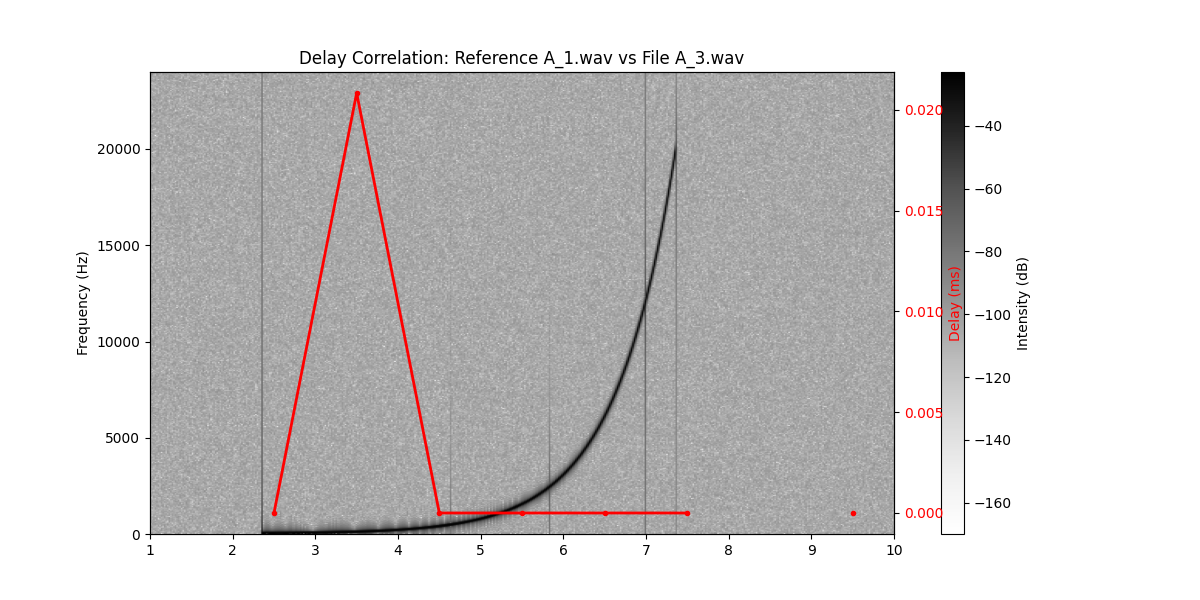
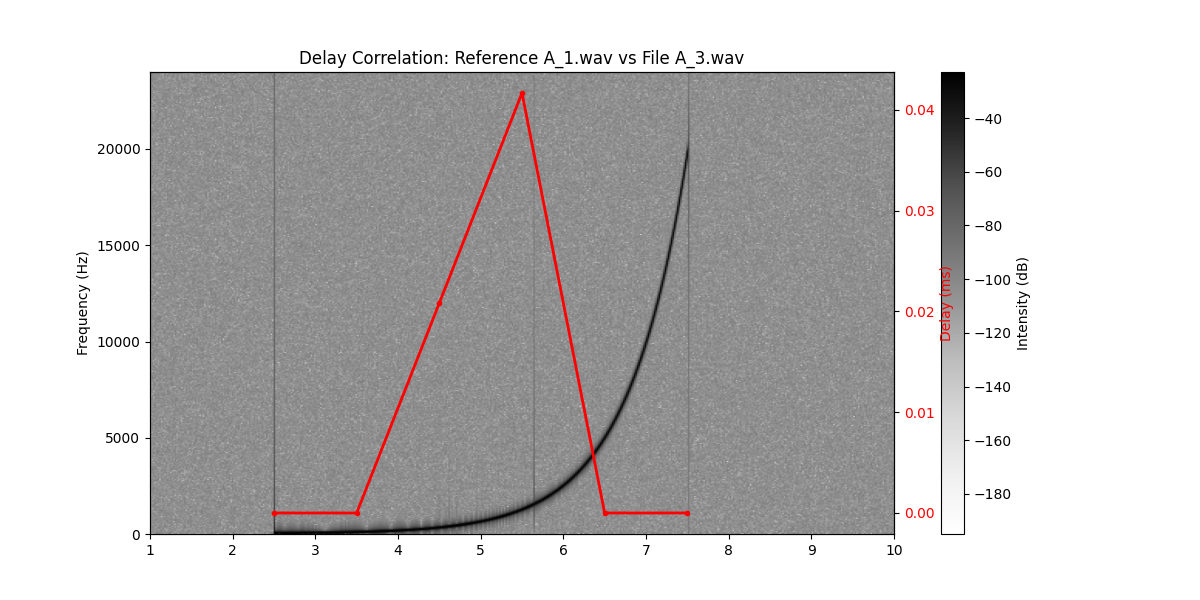
feat: 增加延迟检测阈值配置，优化延迟计算与输出
- 在 Config 类中添加 limit_delay_ms 和 too_low_db 参数，替代硬编码阈值
- 延迟超出阈值的值设为 NaN，避免截断带来的统计偏差
- 延迟单位统一为毫秒，减少单位转换
- 所有输出路径使用 config.output_dir 构建，提高脚本可移植性
- 更新 README.md 中的参数说明和输出文件单位描述

diff --git a/audio_files_analysis.py b/audio_files_analysis.py
@@ -5,6 +5,7 @@ from typing import List, Optional
 import numpy as np
 from scipy.signal import correlate
 from utils import db_to_amplitude
+import matplotlib.pyplot as plt
 
 class Config:
     def __init__(self):
@@ -18,6 +19,10 @@ class Config:
         self.output_dir: str = "./output"
         # 数据对齐时，参考音频文件前后填充的空白采样点数量
         self.align_padding_samples: int = int(self.sample_rate * 0.5)
+        # 延迟检测时，超过延迟时间则视为异常删除数据，单位：毫秒
+        self.limit_delay_ms: float = 5
+        # 延迟检测时，低于此分贝数值则忽略
+        self.too_low_db: float = -60
 
 class AudioAnalysis:
     def __init__(self, config: Config):
@@ -36,7 +41,7 @@ class AudioAnalysis:
         for file in self.aligned_files:
             print(f"整体对齐后的音频文件: {file}")
 
-    def delay_correlation(self, idx_ref: int, idx: int, savefig: Optional[str]=None, plot: bool=False, window_size: Optional[int]=None, hard_clipped_delay_ms: Optional[int]=None) -> List[float]:
+    def delay_correlation(self, idx_ref: int, idx: int, savefig: Optional[str]=None, plot: bool=False, window_size: Optional[int]=None, limit_delay_ms: Optional[float]=None) -> np.ndarray:
         """
         利用窗口，比较两个音频文件之间的延迟，并绘制图谱。
 
@@ -45,8 +50,10 @@ class AudioAnalysis:
             idx: 待比较音频文件的索引
             savefig: 保存图片的文件名
             plot: 是否绘制图谱
+            window_size: 窗口大小，单位：采样点数量。可选，默认为采样率，即1秒
+            limit_delay_ms: 延迟时间阈值，超过阈值则视为异常，单位：毫秒。可选，默认为配置指定毫秒
         Returns:
-            delay_samples: 延迟时间列表，单位：秒
+            delay_samples_ms: 延迟时间，单位：毫秒
         """
         if savefig is None and not plot:
             return
@@ -57,11 +64,11 @@ class AudioAnalysis:
         ref_y, ref_sr = sf.read(ref_file)
         y, sr = sf.read(file)
 
-        delay_samples = []
+        delay_samples_ms = []
         if window_size is None:
-            window_size = int(self.config.sample_rate / 2)
-        if hard_clipped_delay_ms is None:
-            hard_clipped_delay_ms = 1000 * 2 * window_size / self.config.sample_rate
+            window_size = self.config.sample_rate
+        if limit_delay_ms is None:
+            limit_delay_ms = self.config.limit_delay_ms
 
         # 开头和结尾的空间预留出来
         step_count = int(len(ref_y) / window_size) - 2
@@ -79,8 +86,8 @@ class AudioAnalysis:
 
             audio_ref_rms = np.sqrt(np.mean(audio_ref ** 2))
             audio_y_rms = np.sqrt(np.mean(audio_y ** 2))
-            if audio_ref_rms < db_to_amplitude(-60) or audio_y_rms < db_to_amplitude(-60): # 音量过小，忽略
-                delay_samples.append(0.0)
+            if audio_ref_rms < db_to_amplitude(self.config.too_low_db) or audio_y_rms < db_to_amplitude(self.config.too_low_db): # 音量过小，忽略
+                delay_samples_ms.append(0.0)
                 continue
             alpha = audio_ref_rms / audio_y_rms
             audio_y = audio_y * alpha
@@ -90,15 +97,16 @@ class AudioAnalysis:
             estimated_offset = np.argmax(corr)
             offset = estimated_offset - window_size
             offset = -offset # 正数表示audio_y延迟，负数表示audio_y提前
-            delay_time_sec = offset / ref_sr
-            delay_samples.append(delay_time_sec)
+            delay_time_ms = 1000 * offset / ref_sr
+            delay_samples_ms.append(delay_time_ms)
+        delay_samples_ms = np.array(delay_samples_ms)
+        delay_samples_ms[np.abs(delay_samples_ms) > limit_delay_ms] = np.nan
 
         # 绘制图谱所需的数据，背景是参考音频区间的FFT图谱，前景是延迟时间，单位是毫秒
         ref_y_samples = ref_y[sample_begin: sample_begin + sample_length]
         ref_y_times = ref_y_samples / ref_sr
 
         # --- 绘图逻辑 ---
-        import matplotlib.pyplot as plt
 
         plt.figure(figsize=(12, 6))
 
@@ -119,13 +127,8 @@ class AudioAnalysis:
         # 构建延迟曲线的时间轴 - 保持原有逻辑
         time_axis = (np.arange(step_count) * window_size + sample_begin + window_size / 2) / ref_sr
 
-        # 将延迟秒数转换为毫秒
-        delay_ms = np.array(delay_samples) * 1000
-        #delay_ms = np.clip(delay_ms, -hard_clipped_delay_ms, hard_clipped_delay_ms)
-        delay_ms[np.abs(delay_ms) > hard_clipped_delay_ms] = None
-
         # 绘制曲线，颜色设为醒目的红色
-        ax2.plot(time_axis, delay_ms, color='red', linewidth=2, marker='o', markersize=3, label='Delay (ms)')
+        ax2.plot(time_axis, delay_samples_ms, color='red', linewidth=2, marker='o', markersize=3, label='Delay (ms)')
         ax2.set_ylabel('Delay (ms)', color='red')
         ax2.tick_params(axis='y', labelcolor='red')
 
@@ -142,7 +145,7 @@ class AudioAnalysis:
             plt.show()
         else:
             plt.close()
-        return delay_samples
+        return delay_samples_ms
 
     @staticmethod
     def validate_single_wav(filepath: str, config: Config) -> None:
@@ -347,14 +350,14 @@ if __name__ == "__main__":
     config = Config()
     analysis = AudioAnalysis(config)
     m = analysis.audio_files
-    os.makedirs("output/figure", exist_ok=True)
+    os.makedirs(os.path.join(config.output_dir, "figure"), exist_ok=True)
     results = {}
     for i in range(0, len(m) - 1):
         for j in range(i+1, len(m)):
             file_name = f"{i:02d}_{j:02d}_" + os.path.basename(m[i]) + '_vs_' + os.path.basename(m[j]) + ".png"
-            data:List[float] = analysis.delay_correlation(i, j, savefig=f"output/figure/{file_name}", window_size=config.sample_rate, hard_clipped_delay_ms=5)
+            data = analysis.delay_correlation(i, j, savefig=os.path.join(config.output_dir, "figure", file_name))
             title = f"{os.path.basename(m[i])} vs {os.path.basename(m[j])}"
-            results[title] = data # 延迟时间，秒
+            results[title] = data # 延迟时间，毫秒
 
     df = pd.DataFrame({title: pd.Series(data) for title, data in results.items()})
-    df.to_csv("output/all_sequences.csv", index=False)
+    df.to_csv(os.path.join(config.output_dir, "all_sequences.csv"), index=False)

diff --git a/README.md b/README.md
@@ -81,6 +81,8 @@ python delay_visualize.py
 - `channel`：要分析的声道索引（默认 `0`）。
 - `output_dir`：输出目录（默认 `"./output"`）。
 - `align_padding_samples`：对齐时参考文件前后填充的空白采样点数（默认 0.5 秒的采样数）。
+- `limit_delay_ms`：延迟检测阈值（单位：毫秒），超过该值的延迟点会被标记为 NaN（默认 5.0 ms）。
+- `too_low_db`：音量过低阈值（单位：dB），当窗口内 RMS 低于该值时忽略该窗口的延迟计算（默认 -60 dB）。
 
 ## 输出文件详解
 
@@ -94,13 +96,13 @@ python delay_visualize.py
 
 ### `figure/`
 每对文件的延迟图，命名格式如 `00_01_A_1.wav_vs_A_2.wav.png`。
-图中背景为参考音频的频谱图（灰色），红色曲线表示待比较文件相对于参考文件的延迟（毫秒）。延迟超出 ±5 ms 的部分会被标记为无效（`None`），以避免极端值干扰。
+图中背景为参考音频的频谱图（灰色），红色曲线表示待比较文件相对于参考文件的延迟（毫秒）。延迟超出 ±5 ms 的部分会视为无效，以避免极端值干扰。
 
 ![示例图：A_1.wav vs A_2.wav](README_IMAGES/00_01_A_1.wav_vs_A_2.wav.png)
 ![示例图：A_1.wav vs A_3.wav](README_IMAGES/00_02_A_1.wav_vs_A_3.wav.png)
 
 ### `all_sequences.csv`
-CSV 文件，每一列对应一对音频的比较结果，每一行是每个时间窗口的延迟值（单位：秒）。可用于后续统计分析。
+CSV 文件，每一列对应一对音频的比较结果，每一行是每个时间窗口的延迟值（单位：毫秒）。可用于后续统计分析。
 
 ### `delay_analysis_results.csv`
 由 `delay_analyze.py` 生成，包含每对音频文件的延迟总和（绝对值的累积），并按总延迟从大到小排序。便于识别延迟最大的音频对。
